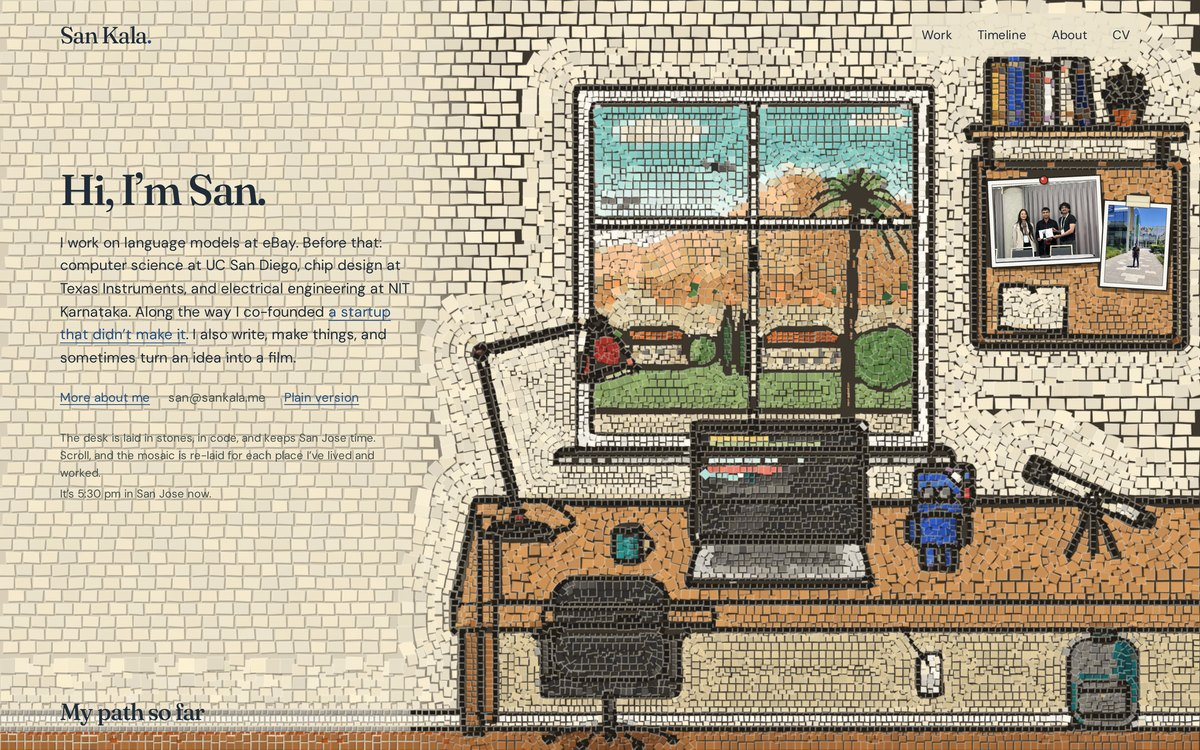
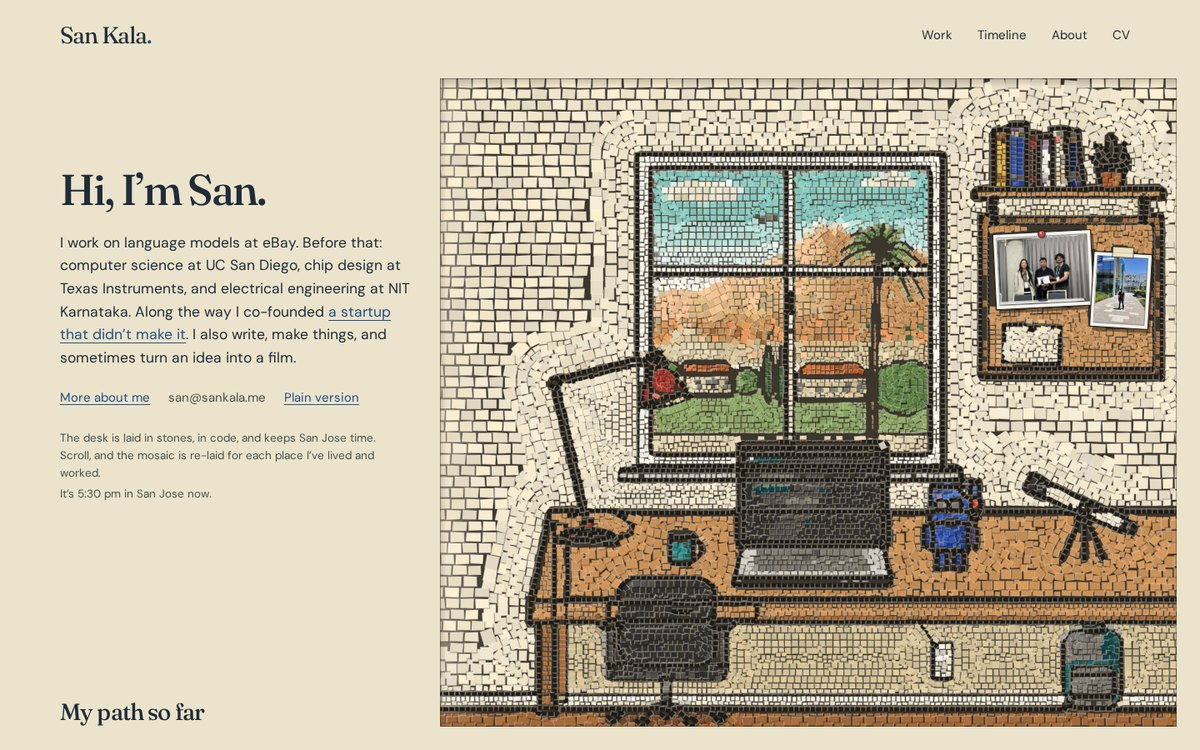
Set the mosaic landing into a plain wall as a framed panel
The words and menu now sit on clean plaster; the whole room is fitted
inside the panel at every size.

diff --git a/design/prototypes/2026-10-code-drawn-art/four-frames-mosaic/js/stage.js b/design/prototypes/2026-10-code-drawn-art/four-frames-mosaic/js/stage.js
@@ -159,7 +159,30 @@ function relay(st, EA, EB, tau) {
   fade(EB, clamp((tau - ps - TOTAL) / .1));
 }
 
+/* The mosaic is a panel set into a plain wall: the words and the menu sit on clean plaster,
+   never on stones (a quiet frame around one living thing). */
+function frameMask(st) {
+  const c = st.ctx, p = st.panel; if (!c || !p) return;
+  const W = st.canvas.width, H = st.canvas.height, d = st.dpr;
+  c.save(); c.setTransform(1, 0, 0, 1, 0, 0);
+  c.fillStyle = st.wallCss;
+  c.beginPath(); c.rect(0, 0, W, H); c.rect(p.x, p.y, p.w, p.h); c.fill('evenodd');
+  // set into the plaster: a soft shadow under the top and left edges, a fine line all round
+  const sh = c.createLinearGradient(0, p.y, 0, p.y + 10 * d); sh.addColorStop(0, 'rgba(40,32,20,.22)'); sh.addColorStop(1, 'rgba(40,32,20,0)');
+  c.fillStyle = sh; c.fillRect(p.x, p.y, p.w, 10 * d);
+  const sv = c.createLinearGradient(p.x, 0, p.x + 8 * d, 0); sv.addColorStop(0, 'rgba(40,32,20,.16)'); sv.addColorStop(1, 'rgba(40,32,20,0)');
+  c.fillStyle = sv; c.fillRect(p.x, p.y, 8 * d, p.h);
+  c.strokeStyle = 'rgba(48,40,28,.45)'; c.lineWidth = Math.max(1, d);
+  c.strokeRect(p.x + .5 * d, p.y + .5 * d, p.w - d, p.h - d);
+  c.restore();
+}
+
 function render(st, t) {
+  renderInner(st, t);
+  frameMask(st);
+}
+
+function renderInner(st, t) {
   const c = st.ctx; if (!c) return;
   const pos = clamp(st.pos, 0, 3), i = Math.min(2, Math.floor(pos)), tau = pos >= 3 ? 1 : pos - i;
   const A = ERAS[pos >= 3 ? 3 : i], B = ERAS[Math.min(3, i + 1)];
@@ -191,8 +214,8 @@ function loadPhotos(urls) {
     const im = new Image(); im.decoding = 'async'; im.onload = im.onerror = () => res(); im.src = src; out[key] = im;
   }))).then(() => out);
 }
-function prepare(st, mode, w, h, dpr) {
-  st.L = layoutFor(mode, w, h);
+function prepare(st, mode, w, h, dpr, bounds) {
+  st.L = layoutFor(mode, w, h, bounds);
   st.dpr = dpr; st.cssW = w; st.cssH = h;
   st.canvas.width = Math.round(w * dpr); st.canvas.height = Math.round(h * dpr);
   st.ctx = st.canvas.getContext('2d');
@@ -229,8 +252,26 @@ export async function createStage({ canvas, stageEl, sections, laneEl, photos, h
     if (!w || !h) return;
     const alive = () => !disposed && id === building;
     st.ready = false;
-    prepare(st, mode, w, h, dpr);
     if (mode === 'wide' && laneEl) { const lr = laneEl.getBoundingClientRect(); st.laneCss = lr.right - r.left; st.laneDev = st.laneCss * dpr; } else { st.laneCss = null; st.laneDev = null; }
+    // where the stones may go: right of the words and below the menu on wide screens, a framed panel
+    // on phones. The whole composition is fitted inside that panel, so nothing is cropped by the frame.
+    st.wallCss = getComputedStyle(stageEl).backgroundColor || '#ece3cb';
+    const hd = document.querySelector('.site-header');
+    let pc, bounds;
+    if (mode === 'wide') {
+      const top = Math.max(18, hd ? hd.getBoundingClientRect().bottom - r.top + 10 : 18), m = 28;
+      pc = { x: (st.laneCss ?? 0) + 36, y: top }; pc.w = w - pc.x - m; pc.h = h - pc.y - m;
+      const u = Math.max(Math.min(pc.h, pc.w), 200) / 1000;
+      const xMin = 1000 - (pc.x + pc.w) / u, yMin = 1000 - (pc.y + pc.h) / u;
+      bounds = { u, xMin, xMax: xMin + w / u, yMin, yMax: yMin + h / u };
+    } else {
+      const m = 12; pc = { x: m, y: m, w: w - 2 * m, h: h - 2 * m };
+      const u = Math.min(pc.w / 700, pc.h / 790);
+      const xMin = 350 - (pc.x + pc.w / 2) / u, yMin = 742 - (pc.y + pc.h) / u;
+      bounds = { u, xMin, xMax: xMin + w / u, yMin, yMax: yMin + h / u };
+    }
+    prepare(st, mode, w, h, dpr, bounds);
+    st.panel = { x: Math.round(pc.x * dpr), y: Math.round(pc.y * dpr), w: Math.round(pc.w * dpr), h: Math.round(pc.h * dpr) };
     await nextTask(); if (!alive()) return;
     const first = hooks.era && ERAS.includes(hooks.era) ? hooks.era : hooks.pos != null ? ERAS[Math.min(3, Math.floor(hooks.pos))] : ERAS[Math.min(3, Math.round(scrollPos(st)))];
     await buildEraSliced(st, first, alive); if (!alive()) return;

diff --git a/design/prototypes/2026-10-code-drawn-art/four-frames-mosaic/js/bundle.js b/design/prototypes/2026-10-code-drawn-art/four-frames-mosaic/js/bundle.js
@@ -3607,7 +3607,37 @@
     fade(EA, 1 - clamp((tau - ps) / 0.08));
     fade(EB, clamp((tau - ps - TOTAL) / 0.1));
   }
+  function frameMask(st) {
+    const c = st.ctx, p = st.panel;
+    if (!c || !p) return;
+    const W = st.canvas.width, H = st.canvas.height, d = st.dpr;
+    c.save();
+    c.setTransform(1, 0, 0, 1, 0, 0);
+    c.fillStyle = st.wallCss;
+    c.beginPath();
+    c.rect(0, 0, W, H);
+    c.rect(p.x, p.y, p.w, p.h);
+    c.fill("evenodd");
+    const sh = c.createLinearGradient(0, p.y, 0, p.y + 10 * d);
+    sh.addColorStop(0, "rgba(40,32,20,.22)");
+    sh.addColorStop(1, "rgba(40,32,20,0)");
+    c.fillStyle = sh;
+    c.fillRect(p.x, p.y, p.w, 10 * d);
+    const sv = c.createLinearGradient(p.x, 0, p.x + 8 * d, 0);
+    sv.addColorStop(0, "rgba(40,32,20,.16)");
+    sv.addColorStop(1, "rgba(40,32,20,0)");
+    c.fillStyle = sv;
+    c.fillRect(p.x, p.y, 8 * d, p.h);
+    c.strokeStyle = "rgba(48,40,28,.45)";
+    c.lineWidth = Math.max(1, d);
+    c.strokeRect(p.x + 0.5 * d, p.y + 0.5 * d, p.w - d, p.h - d);
+    c.restore();
+  }
   function render(st, t) {
+    renderInner(st, t);
+    frameMask(st);
+  }
+  function renderInner(st, t) {
     const c = st.ctx;
     if (!c) return;
     const pos = clamp(st.pos, 0, 3), i = Math.min(2, Math.floor(pos)), tau = pos >= 3 ? 1 : pos - i;
@@ -3653,8 +3683,8 @@
       out[key] = im;
     }))).then(() => out);
   }
-  function prepare(st, mode, w, h, dpr) {
-    st.L = layoutFor(mode, w, h);
+  function prepare(st, mode, w, h, dpr, bounds) {
+    st.L = layoutFor(mode, w, h, bounds);
     st.dpr = dpr;
     st.cssW = w;
     st.cssH = h;
@@ -3703,7 +3733,6 @@
       if (!w || !h) return;
       const alive = () => !disposed && id === building;
       st.ready = false;
-      prepare(st, mode, w, h, dpr);
       if (mode === "wide" && laneEl) {
         const lr = laneEl.getBoundingClientRect();
         st.laneCss = lr.right - r.left;
@@ -3712,6 +3741,26 @@
         st.laneCss = null;
         st.laneDev = null;
       }
+      st.wallCss = getComputedStyle(stageEl).backgroundColor || "#ece3cb";
+      const hd = document.querySelector(".site-header");
+      let pc, bounds;
+      if (mode === "wide") {
+        const top = Math.max(18, hd ? hd.getBoundingClientRect().bottom - r.top + 10 : 18), m = 28;
+        pc = { x: (st.laneCss ?? 0) + 36, y: top };
+        pc.w = w - pc.x - m;
+        pc.h = h - pc.y - m;
+        const u = Math.max(Math.min(pc.h, pc.w), 200) / 1e3;
+        const xMin = 1e3 - (pc.x + pc.w) / u, yMin = 1e3 - (pc.y + pc.h) / u;
+        bounds = { u, xMin, xMax: xMin + w / u, yMin, yMax: yMin + h / u };
+      } else {
+        const m = 12;
+        pc = { x: m, y: m, w: w - 2 * m, h: h - 2 * m };
+        const u = Math.min(pc.w / 700, pc.h / 790);
+        const xMin = 350 - (pc.x + pc.w / 2) / u, yMin = 742 - (pc.y + pc.h) / u;
+        bounds = { u, xMin, xMax: xMin + w / u, yMin, yMax: yMin + h / u };
+      }
+      prepare(st, mode, w, h, dpr, bounds);
+      st.panel = { x: Math.round(pc.x * dpr), y: Math.round(pc.y * dpr), w: Math.round(pc.w * dpr), h: Math.round(pc.h * dpr) };
       await nextTask();
       if (!alive()) return;
       const first = hooks.era && ERAS.includes(hooks.era) ? hooks.era : hooks.pos != null ? ERAS[Math.min(3, Math.floor(hooks.pos))] : ERAS[Math.min(3, Math.round(scrollPos(st)))];

diff --git a/design/prototypes/2026-10-code-drawn-art/index.html b/design/prototypes/2026-10-code-drawn-art/index.html
@@ -80,9 +80,9 @@
 
     <article class="proposal">
       <a class="art" href="four-frames-mosaic/index.html"><img src="previews/thumbs/four-frames-mosaic.jpg" alt="The desk laid as a stone mosaic: dark outline rows around every shape, flowing rows in the sky and hills, level courses on the wall, real photographs set into the wall." width="1200" height="750"></a>
-      <h3><a href="four-frames-mosaic/index.html">2. Mosaic</a> <span class="where">· stones laid along the shapes, like your goldfish</span></h3>
+      <h3><a href="four-frames-mosaic/index.html">2. Mosaic</a> <span class="where">· stones laid along the shapes, like your goldfish, set into a plain wall</span></h3>
       <p>Every shape gets a row of dark outline stones, then rows that follow it inward, rings around round things and level courses on the open wall. The stones never move: each frame the scene behind them changes, so clouds, a circling hawk, kites, the lighthouse beam and the laptop's typing ripple through fixed stones. Changing place, a wave lifts the old stones and lays the next place outline first, then row by row.</p>
-      <p class="meta">Weakest parts: small objects (mug, telescope) are close to stone size and read as clusters; the Lick domes are lost; no gold stones yet.</p>
+      <p class="meta">Now a framed panel: your words and the menu sit on clean plaster, and the mosaic is the one living thing. Weakest parts: small objects (mug, telescope) are close to stone size and read as clusters; the Lick domes are lost; no gold stones yet.</p>
     </article>
 
     <article class="proposal">
